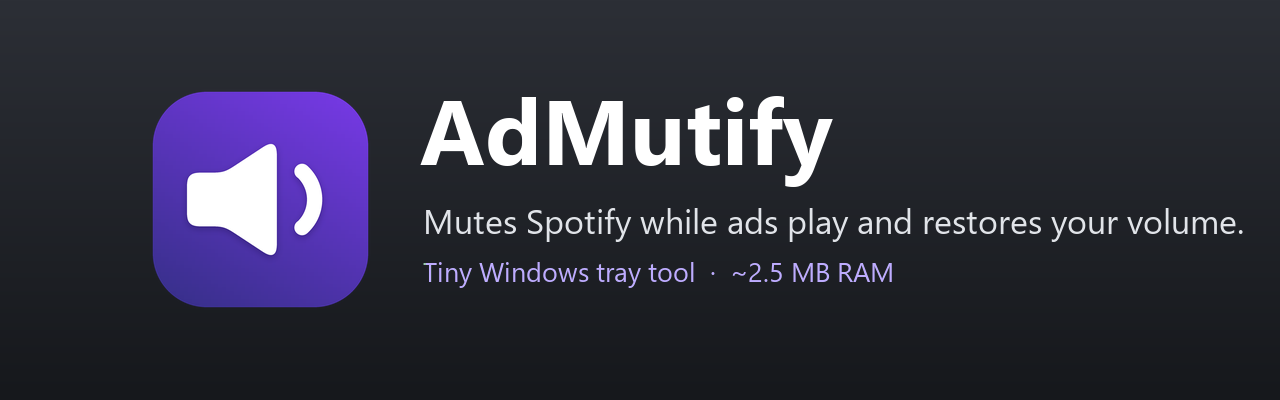
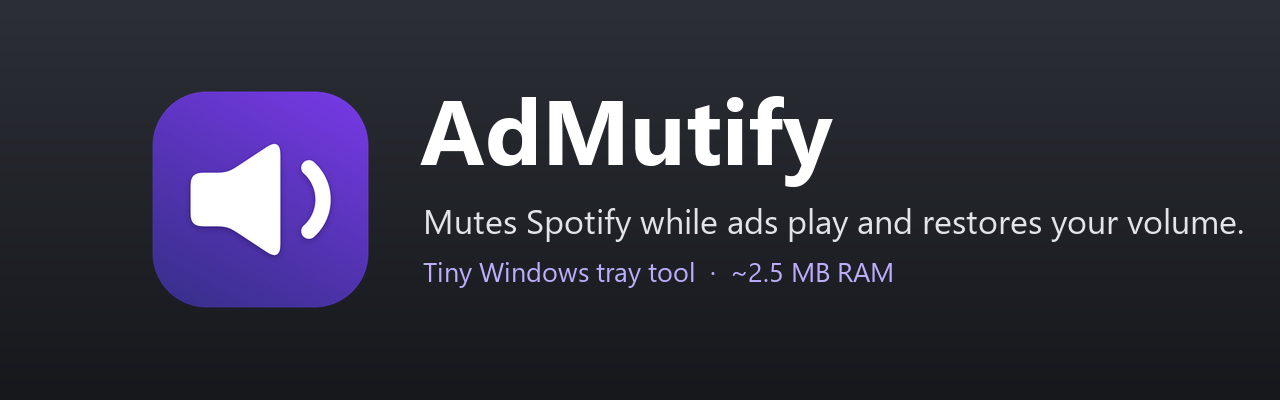
Release 1.2.2
Banners show the current app icon.

Changed region(s): [[0.1875, 0.36, 0.2812, 0.63], [0.125, 0.54, 0.1562, 0.57], [0.125, 0.45, 0.1562, 0.48]]

diff --git a/CHANGELOG.md b/CHANGELOG.md
@@ -2,7 +2,7 @@
 
 All notable changes to this project are documented here. The format follows Keep a Changelog; versions follow semantic versioning.
 
-## [1.2.2] - unreleased
+## [1.2.2] - 2026-11-22
 
 ### Changed
 - New icon: a white speaker on a violet tile. While an ad is muted the tray icon turns coral with an X beside the speaker, while AdMutify is off it turns grey. The tray icon fills its space for a larger symbol.
@@ -23,7 +23,7 @@ All notable changes to this project are documented here. The format follows Keep
 - The music picker opens in the folder of a chosen file that has since been deleted, instead of in the Music folder.
 - If the crash helper could not start, a crash still restores Spotify's volume right away instead of only at the next start.
 - Moving the settings window to a monitor with different scaling resizes it once to the right size, instead of a broken layout with an unreachable Close button.
-- An ad is counted only once its mute reaches Spotify, and the counter file can no longer be changed with a text editor.
+- An ad is counted only once its mute reaches Spotify. The counter file is stored encoded with a check value, so a count edited by hand is not taken over.
 - A portable copy installed silently while AdMutify was running starts with its own settings next to the exe instead of the installed copy's settings.
 
 ## [1.2.1] - 2026-11-14
